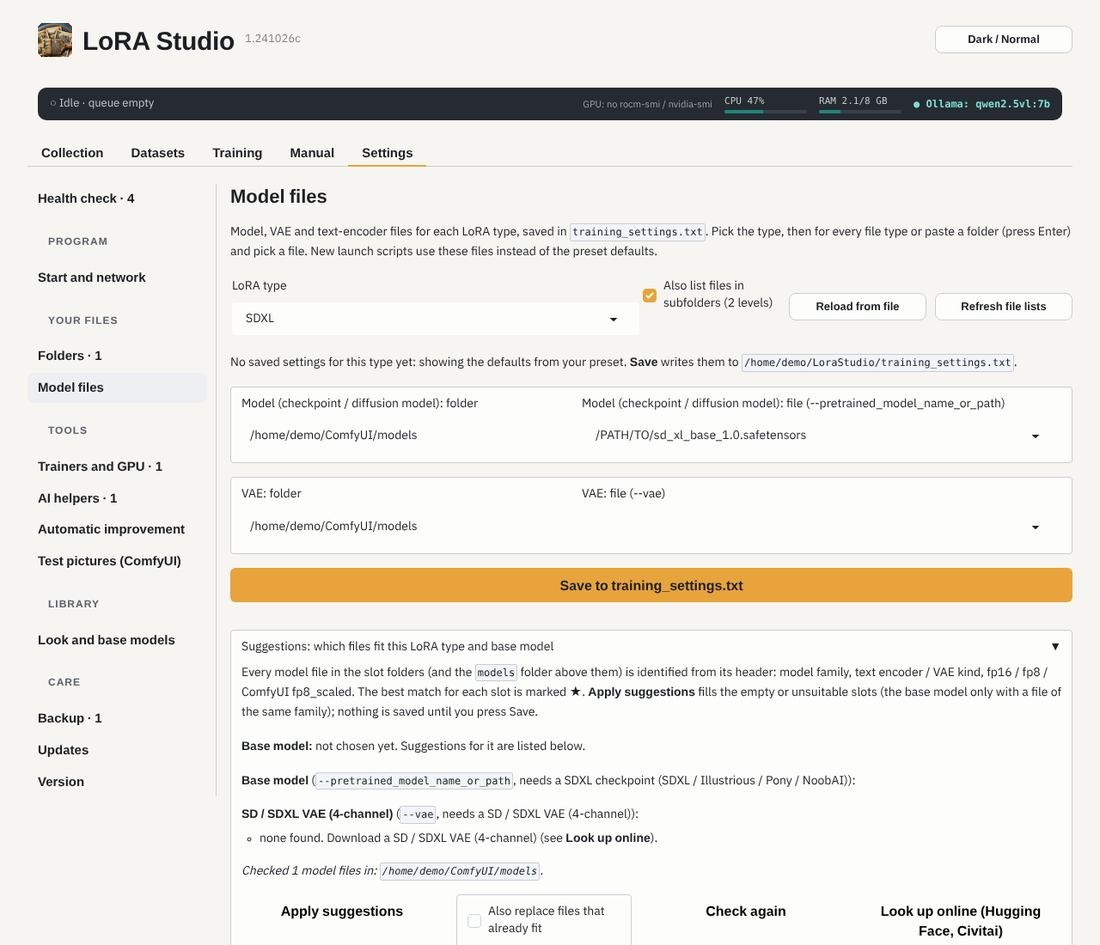
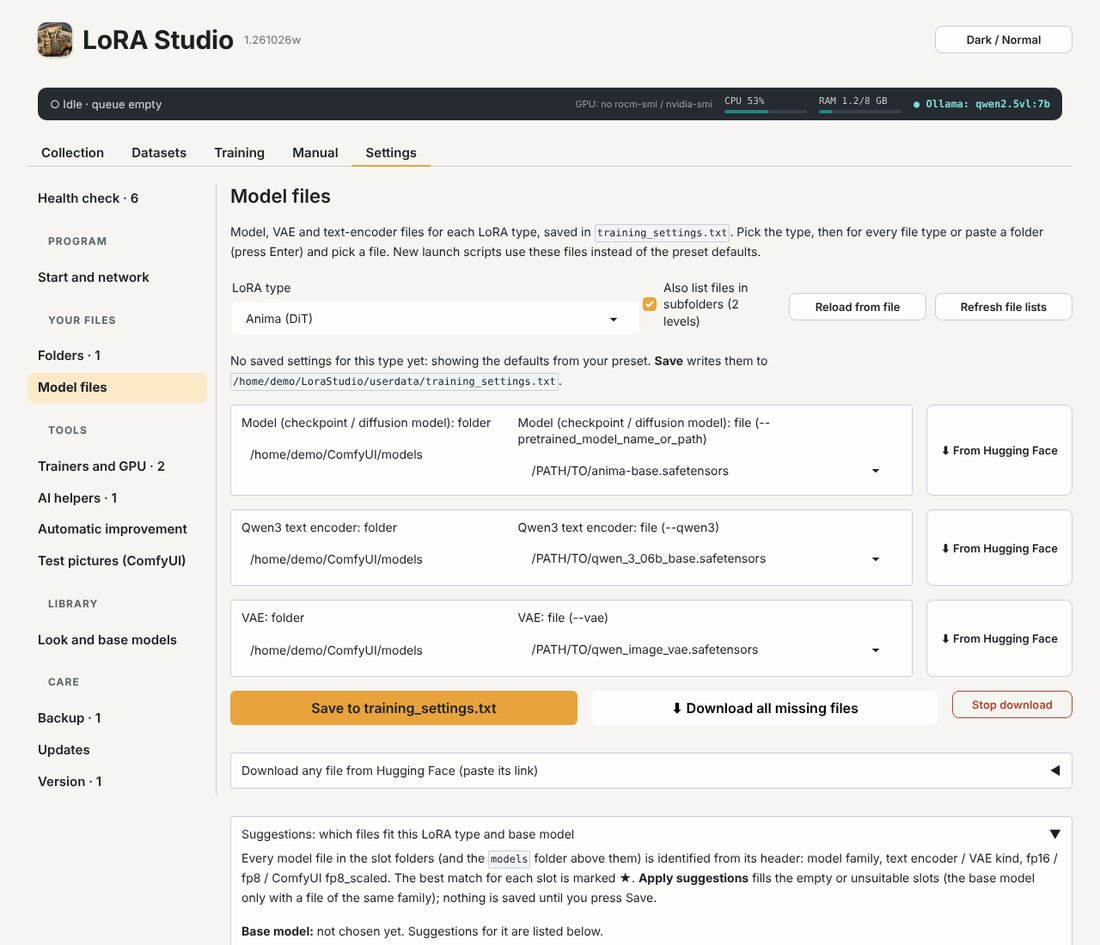
LoRA Studio 1.261026x: INSTALL.md walkthrough for Linux and Windows; the Manual updated with new pictures
Claude-Session: https://claude.ai/code/session_01QnQQkt687VuNWtpS6stAaw

diff --git a/version.py b/version.py
@@ -14,18 +14,18 @@ from __future__ import annotations
 import re
 from pathlib import Path
 
-__version__ = "1.261026w"
-VERSION = "1.261026w"
+__version__ = "1.261026x"
+VERSION = "1.261026x"
 # the version each part has in this release (written by the release script; a part not listed: VERSION)
 RELEASE: dict = {
     "lora_studio.py": "1.251026o",
-    "version.py": "1.261026w",
+    "version.py": "1.261026x",
     "program/lspaths.py": "1.251026o",
     "program/Training/sdgui.py": "1.261026v",
     "program/Training/sd_script.py": "1.261026v",
     "program/Data/sd_prepare.py": "1.261026v",
     "program/Training/sd_settings.py": "1.261026v",
-    "program/Data/datasets_ui.py": "1.261026v",
+    "program/Data/datasets_ui.py": "1.261026x",
     "program/Data/dsflow.py": "1.261026w",
     "program/Training/training_ui.py": "1.261026v",
     "program/Settings/settings_ui.py": "1.251026o",
@@ -54,7 +54,7 @@ RELEASE: dict = {
     "program/Settings/backup.py": "1.251026o",
     "selftest.py": "1.261026w",
     "program/Settings/machinecheck.py": "1.251026o",
-    "program/Settings/selfupdate.py": "1.251026o",
+    "program/Settings/selfupdate.py": "1.261026x",
     "program/Training/failcodes.py": "1.251026o",
     "program/Other/report.py": "1.251026o",
     "program/Other/manual.py": "1.261026v",
@@ -65,11 +65,12 @@ RELEASE: dict = {
     "program/Training/Lora_Datatypes.py": "1.251026o",
     "program/Training/Training_Recommendations.py": "1.251026o",
     "program/Other/lora_studio.css": "1.261026v",
-    "install.sh": "1.251026o",
+    "install.sh": "1.261026x",
     "start.sh": "1.251026o",
 }
 # what changed in each update, newest first (shown in Settings › Version)
 CHANGES = [
+    ("1.261026x", "Documentation: a new INSTALL.md (step by step for Linux and Windows: what you need, the installer's questions, the first start, updates, moving to a new computer, removing it, and a troubleshooting table), linked from the README and part of the zip. The Manual describes the Hugging Face downloads, the two-way metadata sync, the usefulness check and the pins, with new pictures of step 4, step 5 and Settings › Model files; step 4's own text was updated too."),
     ("1.261026w", "Datasets › 4 Sort, for characters: pictures where clothes, pose or angle hide nearly everything about the character, or where the figure is small and the face tiny, are left out; plain hands, feet, legs or arms are left out instead of kept as detail shots (a tail, horns, a tattoo stay); the face size counts, and sharpness weighs less, so a slightly soft picture that shows the character well beats a crisp one that shows little."),
     ("1.261026v", "Datasets › 4 Sort / 5 Select: the Ollama sort also rates how much each picture teaches about the subject (1-5) and notes a detail it shows well; pictures that teach almost nothing are left out, the rating counts in the quality score. Step 5 has pins under every picture: 📌 Always keeps it and ⛔ Never leaves it out whatever the rules say, kept through new sorts and used by the automatic improvement. Clean-up: dead code removed (the old picture picker, unused functions and imports, 80 unused re-exports in sdgui), and Lora_Datatypes.py is no longer re-read on every call (read again only when it changes): opening a dataset step is up to 7× faster."),
     ("1.261026u", "Collection › Maintenance › Sync now syncs the .metadata.json files both ways: data that only one side has (notes, tags, trigger words, Civitai data, usage tips …) is copied to the other, also into the LoRA folder's file, so ComfyUI's LoRA Manager sees your edits; an empty field takes the other side's value; where both differ, the newer file wins. File paths stay as they are on each side, a .bak is made before a file changes."),

diff --git a/program/Data/datasets_ui.py b/program/Data/datasets_ui.py
@@ -7,7 +7,7 @@ and the consistency check (7), the repeat folder and the launch script page (9).
 is in dsflow.py.
 """
 from __future__ import annotations
-__version__ = "1.261026v"  # LoRA Studio version, see version.py
+__version__ = "1.261026x"  # LoRA Studio version, see version.py
 
 import html
 import json
@@ -784,9 +784,11 @@ def build(app, show):
         with gr.Column(visible=False, elem_id="ds_s4") as steps[4]:
             gr.Markdown("### Sort with Ollama" if FT.have("ollama") else "### Sort")
             gr.Markdown("Pass 1 is quick (no AI): too blurry, too small for your LoRA types, duplicates. Pass 2 looks at "
-                        "each picture with the Ollama model: one clear subject, framing, outfit, place, quality and "
-                        "watermarks. Pictures that show only a part of the character (hands, tail, horns, back) are "
-                        "kept as detail shots.", elem_classes=["ls-note"])
+                        "each picture with the Ollama model: one clear subject, framing, outfit, place, quality, "
+                        "watermarks and how much it shows of the subject. Pictures that hide the subject or show "
+                        "almost nothing of it are left out; a part with a feature (tail, horns, a tattoo) is kept as a "
+                        "detail shot, plain hands or feet are not. Step 5 lets you overrule any of it with pins.",
+                        elem_classes=["ls-note"])
             if not FT.have("ollama"):
                 gr.Markdown("**Pass 2 · detailed (Ollama missing)**: only the quick pass runs, so framing, outfits, places "
                             "and watermarks are not known (step 5 then picks by quality only).",

diff --git a/program/Settings/selfupdate.py b/program/Settings/selfupdate.py
@@ -11,7 +11,7 @@
     5. Restart LoRA Studio (button) to use the new version. Roll back puts the files of before the last update back.
 """
 from __future__ import annotations
-__version__ = "1.251026o"  # LoRA Studio version, see version.py
+__version__ = "1.261026x"  # LoRA Studio version, see version.py
 
 import ast
 import json
@@ -29,7 +29,7 @@ import lspaths as _LP  # noqa: E402  (program/lspaths.py: ROOT, PROG, USER)
 HERE = _LP.ROOT                      # the files of a zip are placed relative to the LoRA Studio folder
 BACKUPS = _LP.USER / "update_backups"
 PREFIX = "lorastudio_"
-EXTRA_FILES = ("requirements.txt", "README.md", "REFERENCE.md", "LICENSE", "NOTICE")       # copied too, not in the parts list
+EXTRA_FILES = ("requirements.txt", "README.md", "INSTALL.md", "REFERENCE.md", "LICENSE", "NOTICE")       # copied too, not in the parts list
 DIRS = ("program/manual", "program/logo")             # folders that are copied as a whole (the manual, the logo)
 STATE = {"busy": False}
 

diff --git a/INSTALL.md b/INSTALL.md
@@ -1,0 +1,250 @@
+# Installing LoRA Studio
+
+A step-by-step walkthrough for **Linux** and **Windows**: what you need first, the install itself, the first start,
+updates, moving to a new computer, removing it again, and what to do when something goes wrong.
+
+LoRA Studio was made on Fedora Linux with an AMD Radeon (ROCm). NVIDIA and Windows are supported by the installer but
+have not been tried on real hardware yet. If you test one of them, please send the result with the
+[Test result form](../../issues/new?template=test_result.yml).
+
+**Contents:** [Before you start](#before-you-start) · [Linux](#linux) · [Windows](#windows) ·
+[The first start](#the-first-start) · [Starting it later](#starting-it-later) · [Updating](#updating) ·
+[A new computer, or a reinstall](#a-new-computer-or-a-reinstall) · [Removing it](#removing-it) ·
+[When something goes wrong](#when-something-goes-wrong)
+
+---
+
+## Before you start
+
+**Get LoRA Studio**: download `LoraStudio.zip` from the [Releases](../../releases) page (newest at the top). You can
+also clone the repository instead: `git clone https://github.com/druidican/LoraStudio.git`.
+
+**What you need**
+
+| | |
+|---|---|
+| System | Linux (tested on Fedora 44; Ubuntu, Debian and Mint are supported by the installer), or Windows 10/11 with WSL2 (the installer sets it up) |
+| Graphics card, to train | **AMD Radeon** with ROCm (tested: RX 9070 XT, 16 GB) or **NVIDIA** with CUDA. SDXL, Illustrious and Pony fit 12-16 GB; FLUX and Qwen-Image need more |
+| Disk | about 25 GB with the trainers (PyTorch, sd-scripts, musubi-tuner), about 2 GB without, plus your models |
+| Internet | for the install (downloads PyTorch, the trainers and, if you want them, Ollama and its model) |
+
+**Optional**
+- [Ollama](https://ollama.com) with a vision model: the detailed sort of your pictures and sentence captions. The
+  installer can install it on Linux.
+- [ComfyUI](https://github.com/comfyanonymous/ComfyUI): test pictures of your LoRAs with your own workflow.
+- A [Hugging Face token](https://huggingface.co/settings/tokens) (a *read* token is enough): for gated models such as
+  FLUX.1-dev, and for downloading missing model files from inside LoRA Studio.
+
+Without a usable graphics card LoRA Studio still prepares datasets and writes launch scripts that you can run on
+another computer.
+
+---
+
+## Linux
+
+### 1. The things the installer needs
+
+The installer checks for these and offers to install what is missing, so you can usually skip this step.
+
+- **git** and **Python 3.12**
+  - Fedora: `sudo dnf install python3.12 git`
+  - Ubuntu / Debian / Mint: `sudo apt install python3.12 python3.12-venv git`
+- **AMD Radeon**: the normal `amdgpu` driver (part of the Linux kernel). ROCm itself does **not** need to be
+  installed on your system: the installer puts the ROCm libraries inside LoRA Studio's own environment. Your user
+  must be in the `render` and `video` groups:
+  ```bash
+  sudo usermod -aG render,video $USER
+  ```
+  then log out and in again.
+- **NVIDIA**: the NVIDIA driver, so that `nvidia-smi` works in a terminal.
+
+### 2. Unpack and run the installer
+
+```bash
+cd ~/Downloads
+unzip LoraStudio.zip
+cd LoraStudio
+./install.sh
+```
+
+The installer explains each step as it goes. What it asks:
+
+1. **The notice**: sd-scripts and musubi-tuner belong to kohya-ss, LoRA Studio is only a GUI for them. Type `yes`.
+2. **sd-scripts** (trains SDXL, Illustrious, Pony, Anima, FLUX.1, SD 1.5, …): *install it for me*, *I have it
+   already* (it asks for the folder), or *none*.
+3. **musubi-tuner** (trains Z-Image Turbo, Qwen-Image, FLUX.2): the same three choices.
+4. **Ollama**: install it, use one that is already running, or none.
+5. **Your graphics card**: detected by itself. A computer with both an AMD and an NVIDIA card (most gaming laptops)
+   is asked which one to train on.
+
+It then installs everything into **`~/LoraStudio`**: LoRA Studio, one Python environment (`venv/`) with PyTorch for
+your card, and the trainers. This takes a while (PyTorch with ROCm or CUDA is several GB). Everything it prints is
+also in `~/LoraStudio/install.log`, and at the end it writes an **install report** to
+`~/LoraStudio/userdata/reports/` (without tokens, passwords or your home folder) that you can send when something
+does not work.
+
+You can delete the unpacked download folder afterwards; LoRA Studio runs from `~/LoraStudio`.
+
+Useful options (`./install.sh --help` lists all of them):
+
+| Option | What it does |
+|---|---|
+| `--dir DIR` | install somewhere else than `~/LoraStudio` |
+| `--gpu amd` / `--gpu nvidia` | choose the card yourself |
+| `--gfx gfx1201` | the AMD architecture, when it is not detected |
+| `--sd none --mu none` | no trainers (only prepare datasets and write launch scripts) |
+| `--import DIR` | take the settings, token and marks from an older LoRA Studio folder |
+| `--ask` | ask every question again (the answers of the last run are remembered) |
+
+### 3. Start it
+
+```bash
+cd ~/LoraStudio
+./start.sh
+```
+
+Your browser opens LoRA Studio at <http://127.0.0.1:7860>. Continue with [The first start](#the-first-start).
+
+---
+
+## Windows
+
+LoRA Studio and the trainers are Linux programs. On Windows they run in **WSL2**, Microsoft's own Linux inside
+Windows, which is also how sd-scripts and PyTorch work best on Windows. The installer does all of this for you.
+
+### 1. Before you start
+
+- **NVIDIA**: the normal Windows driver from NVIDIA is enough (WSL2 uses it).
+- **AMD Radeon**: training inside WSL needs AMD's *ROCm on WSL* (Radeon RX 7000 or 9000 with a recent Adrenalin
+  driver). If your card or driver cannot do that, answer **none** for the trainers: you can still prepare datasets
+  and make launch scripts on Windows, and train on a Linux computer.
+- **Ollama** (optional): install it in Windows from [ollama.com/download/windows](https://ollama.com/download/windows)
+  before you run the installer, so it can be found.
+
+### 2. Run the installer
+
+1. Unpack `LoraStudio.zip` (right-click › *Extract All…*).
+2. Open the folder and double-click **`Install LoRA Studio.cmd`**.
+3. **If WSL2 is not installed yet**, the installer installs it with Ubuntu 24.04. Windows asks for administrator
+   rights. Then:
+   - restart Windows,
+   - Ubuntu opens once and asks you to choose a user name and password (this is a new Linux user, it can be
+     anything; remember the password),
+   - double-click **`Install LoRA Studio.cmd`** again.
+4. The installer looks at your graphics card and at Ollama, and then runs the Linux installer inside Ubuntu. It asks
+   the same questions as on Linux (see [above](#2-unpack-and-run-the-installer)). When it asks for your password, it
+   is the Ubuntu password from step 3.
+5. At the end it puts a **LoRA Studio** starter on your desktop and writes an install report next to the installer
+   (`install_report_windows_<time>.md`).
+
+### 3. Start it
+
+Double-click **LoRA Studio** on the desktop. A black window opens, and your browser opens LoRA Studio when it is ready.
+**Closing the black window stops LoRA Studio.**
+
+### Your files on Windows
+
+- Inside Ubuntu, your Windows drives are under `/mnt/c`, `/mnt/d`, …: for example your pictures are at
+  `/mnt/c/Users/<you>/Pictures`. You can use those paths for your dataset folders.
+- Datasets **inside** Ubuntu train noticeably faster. The Windows Explorer shows Ubuntu's files under
+  **Linux › Ubuntu-24.04 › home › <your Ubuntu user>**, so you can copy pictures in there.
+- Training hangs at the very start on a computer with a Ryzen processor that has built-in graphics? Turn the built-in
+  graphics off in the Windows Device Manager, then run `wsl --shutdown` in a Windows terminal and start again.
+
+---
+
+## The first start
+
+1. **The notice**: the first page says that sd-scripts and musubi-tuner belong to kohya-ss and are not part of
+   LoRA Studio. Tick *I have read this and agree* and press *Continue to LoRA Studio*. It is shown only once.
+2. **The setup page** asks for your folders and options, one step at a time. Every step can be skipped and changed
+   later in **Settings**:
+   - **Trainers**: where sd-scripts and musubi-tuner are (already filled in when the installer put them there).
+   - **Datasets**: the folder your datasets go into, one folder per LoRA.
+   - **Models**: the folder with your base models, text encoders and VAEs (ComfyUI's `models` folder works well).
+     Missing model files can later be downloaded from Hugging Face in **Settings › Model files**.
+   - **ComfyUI**: your LoRA folder and the folder ComfyUI saves its pictures in.
+   - **Hugging Face token**: only needed for gated models and downloads.
+   - **Ollama**: its address and the vision model (for example `qwen2.5vl:7b`).
+   - **Backups**: where *Settings › Backup* saves backups.
+   - Instead of all this you can **import a backup** from another LoRA Studio (see below).
+3. LoRA Studio opens on the **Collection**. Open **Settings › Health check** first: it lists anything that is not
+   set up yet, with a button to the place where it is fixed.
+4. Then **Datasets › New dataset** takes you from a folder of pictures to a launch script in nine steps, and
+   **Training** runs it. The **Manual** tab (inside the program) explains every page with pictures.
+
+---
+
+## Starting it later
+
+| | |
+|---|---|
+| Linux | `cd ~/LoraStudio && ./start.sh` |
+| Windows | double-click **LoRA Studio** on the desktop |
+| Another port | `./start.sh --port 7861` |
+| Without opening the browser | `./start.sh --no-browser`, then open <http://127.0.0.1:7860> |
+| The setup page again | `./start.sh --setup` |
+
+**Settings › Start and network** sets the port, the start page, whether the browser opens, and whether other
+computers on your network may open LoRA Studio (that needs a login, set on the same page).
+
+---
+
+## Updating
+
+- **In the program**: download the new `LoraStudio.zip`, open **Settings › Updates** and choose the zip. LoRA Studio
+  shows what changes, keeps a backup of the old files, tests the new version and goes back by itself when the test
+  fails. Restart when it asks.
+- **With the installer**: unpack the new zip and run `./install.sh` from it again. It updates LoRA Studio in
+  `~/LoraStudio`, pulls the newest trainers and keeps PyTorch as it is.
+
+Your settings and data are never part of an update. **Settings › Updates** also updates sd-scripts and musubi-tuner,
+and checks the training environment (*Fix the training venv* puts back ROCm or CUDA parts that do not fit PyTorch).
+
+---
+
+## A new computer, or a reinstall
+
+1. On the old install: **Settings › Backup › Back up now**. It puts your settings, token, marks and databases into
+   one zip (your datasets, LoRAs and models are not in it; copy those folders yourself).
+2. Install LoRA Studio on the new computer as above.
+3. On the setup page of the first start, choose **Import a backup** and pick the zip.
+
+Everything that belongs to you is in `~/LoraStudio/userdata/`; the program is in `~/LoraStudio/program/`. To share
+LoRA Studio with someone, give them `LoraStudio.zip`, **never your LoRA Studio folder**: `userdata/` holds your
+Hugging Face token.
+
+---
+
+## Removing it
+
+Make a backup first (above) if you might want your settings again.
+
+- **Linux**: delete the folder: `rm -rf ~/LoraStudio`. Your datasets, LoRAs and models are in your own folders and
+  stay. Ollama, if the installer put it there, has its own uninstall (see [ollama.com](https://ollama.com)).
+- **Windows**: delete the **LoRA Studio** starter from the desktop, then in a Windows terminal:
+  `wsl -d Ubuntu-24.04 -- rm -rf ~/LoraStudio`. To remove Ubuntu completely (this deletes **everything** inside it,
+  also any datasets you copied in): `wsl --unregister Ubuntu-24.04`.
+
+---
+
+## When something goes wrong
+
+| Problem | What to do |
+|---|---|
+| *no AMD (ROCm) or NVIDIA GPU found* | AMD: add your user to the `render` and `video` groups (above) and log in again. NVIDIA: check that `nvidia-smi` works. Or choose the card yourself: `./install.sh --gpu amd` / `--gpu nvidia` |
+| *your user is not in the 'render' group* | `sudo usermod -aG render,video $USER`, then log out and in |
+| The AMD architecture is not found | `./install.sh --gfx gfx1201` (RX 9070 XT; RX 7900: `gfx1100`) |
+| The browser does not open | open <http://127.0.0.1:7860> yourself |
+| *address already in use* | another program uses port 7860: `./start.sh --port 7861` |
+| A training crashes with *Memory access fault by GPU* (AMD) | **Settings › Updates › Fix the training venv** |
+| A training fails | **Training › Results** says what went wrong in plain words, and what to change |
+| A model file is missing | **Settings › Model files**: *From Hugging Face* next to the slot |
+| Windows: the installer stops after installing WSL | restart Windows, finish Ubuntu's user setup, run the installer again |
+
+**Asking for help**: open an [issue](../../issues/new/choose) and attach the **install report**
+(`~/LoraStudio/userdata/reports/install_report_*.md` on Linux, `install_report_windows_*.md` next to the installer on
+Windows). For a problem inside the program, **Settings › Version › Report for Claude** makes one file with the log
+end, the settings and the machine, without tokens or your home folder.
+
+More detail on every option and file: [REFERENCE.md](REFERENCE.md).

diff --git a/README.md b/README.md
@@ -74,7 +74,9 @@ needed (one restart), runs the same installer inside it and puts a **LoRA Studio
 The installer asks three questions: **sd-scripts**, **musubi-tuner** and **Ollama**: install it for you, use the one
 you have, or none. At the end it writes an **install report** (no passwords, tokens or home folder) that you can send
 when something does not work. The first start opens a setup page in your browser for your folders; every step can be
-skipped. More: the Manual chapter *Installing*, and [REFERENCE.md](REFERENCE.md#install-with-installsh-recommended).
+skipped.
+
+**Step by step, with the first start, updates, removing it and help when something goes wrong: [INSTALL.md](INSTALL.md).**
 
 ## Updates
 

diff --git a/program/manual/06_collection.md b/program/manual/06_collection.md
@@ -12,4 +12,6 @@ Manager's format).
 
 - **Completed** marks a version as finished: its launch script is hidden in Training › Run. A new version starts
   unmarked.
-- **Maintenance** syncs LoRA Manager data and previews, and cleans up leftovers of finished runs.
+- **Maintenance** syncs LoRA Manager data and previews, and cleans up leftovers of finished runs. *Sync now* works
+  both ways for the `.metadata.json` files: what only one side has (notes, tags, trigger words, Civitai data) is
+  copied to the other, an empty field takes the other side's value, and where both differ the newer file wins.
